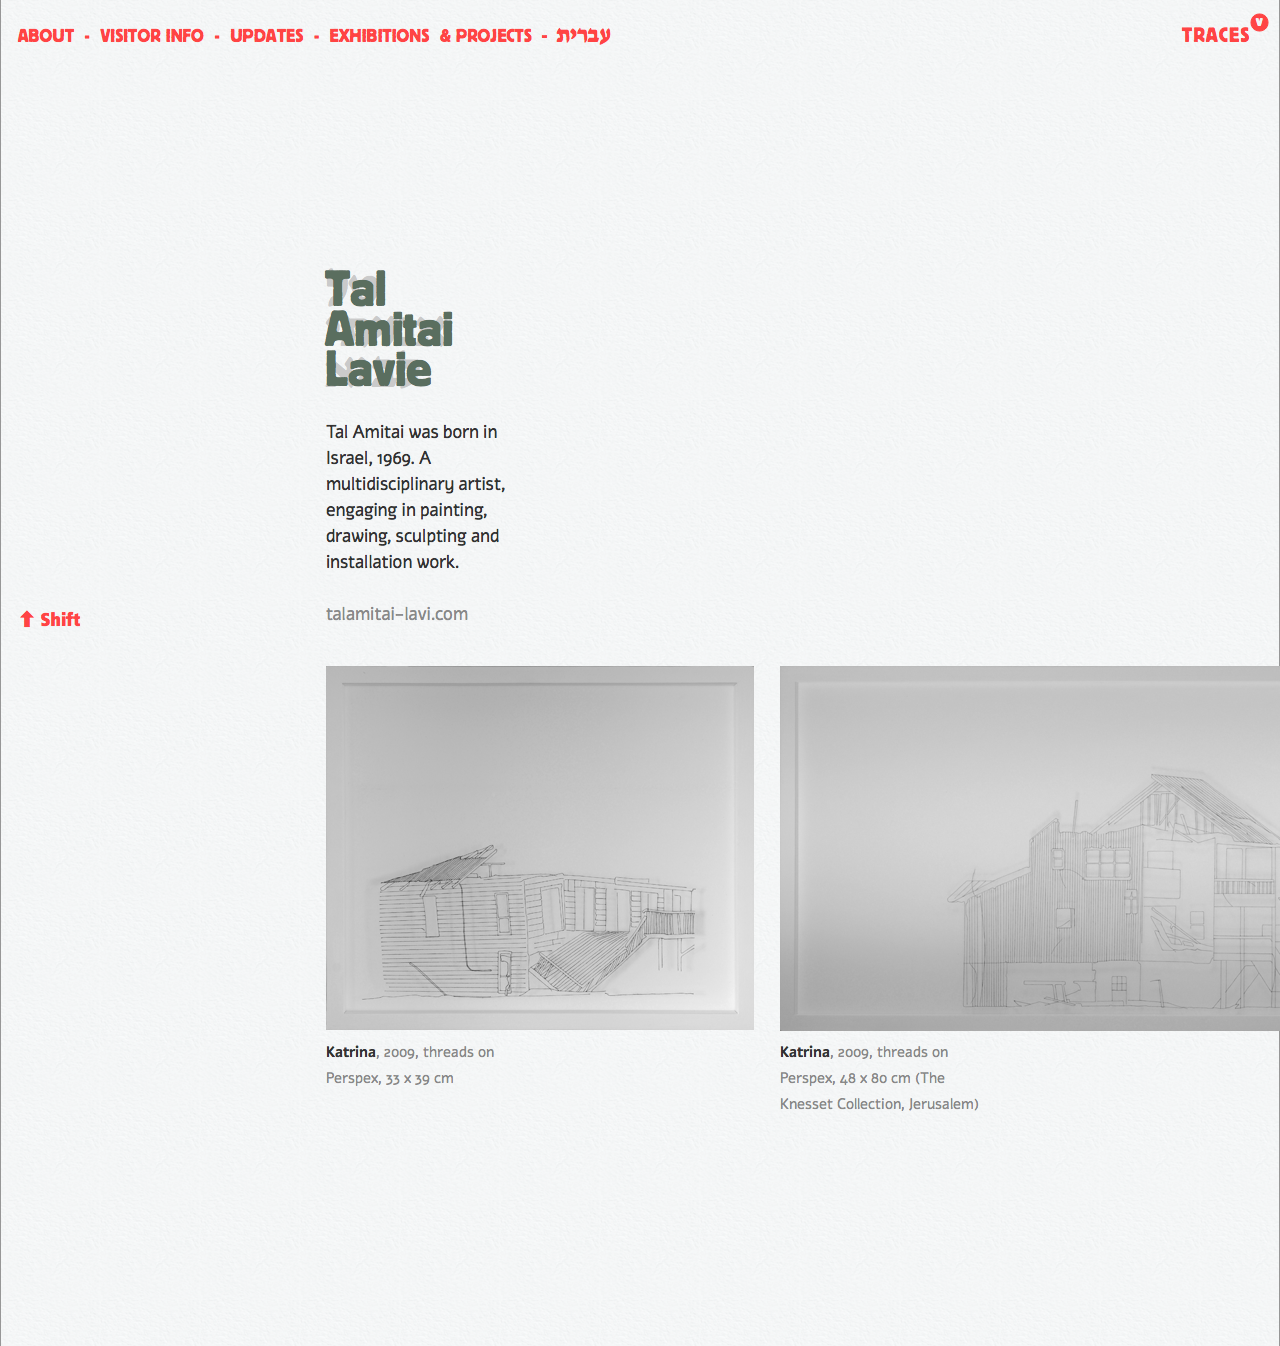
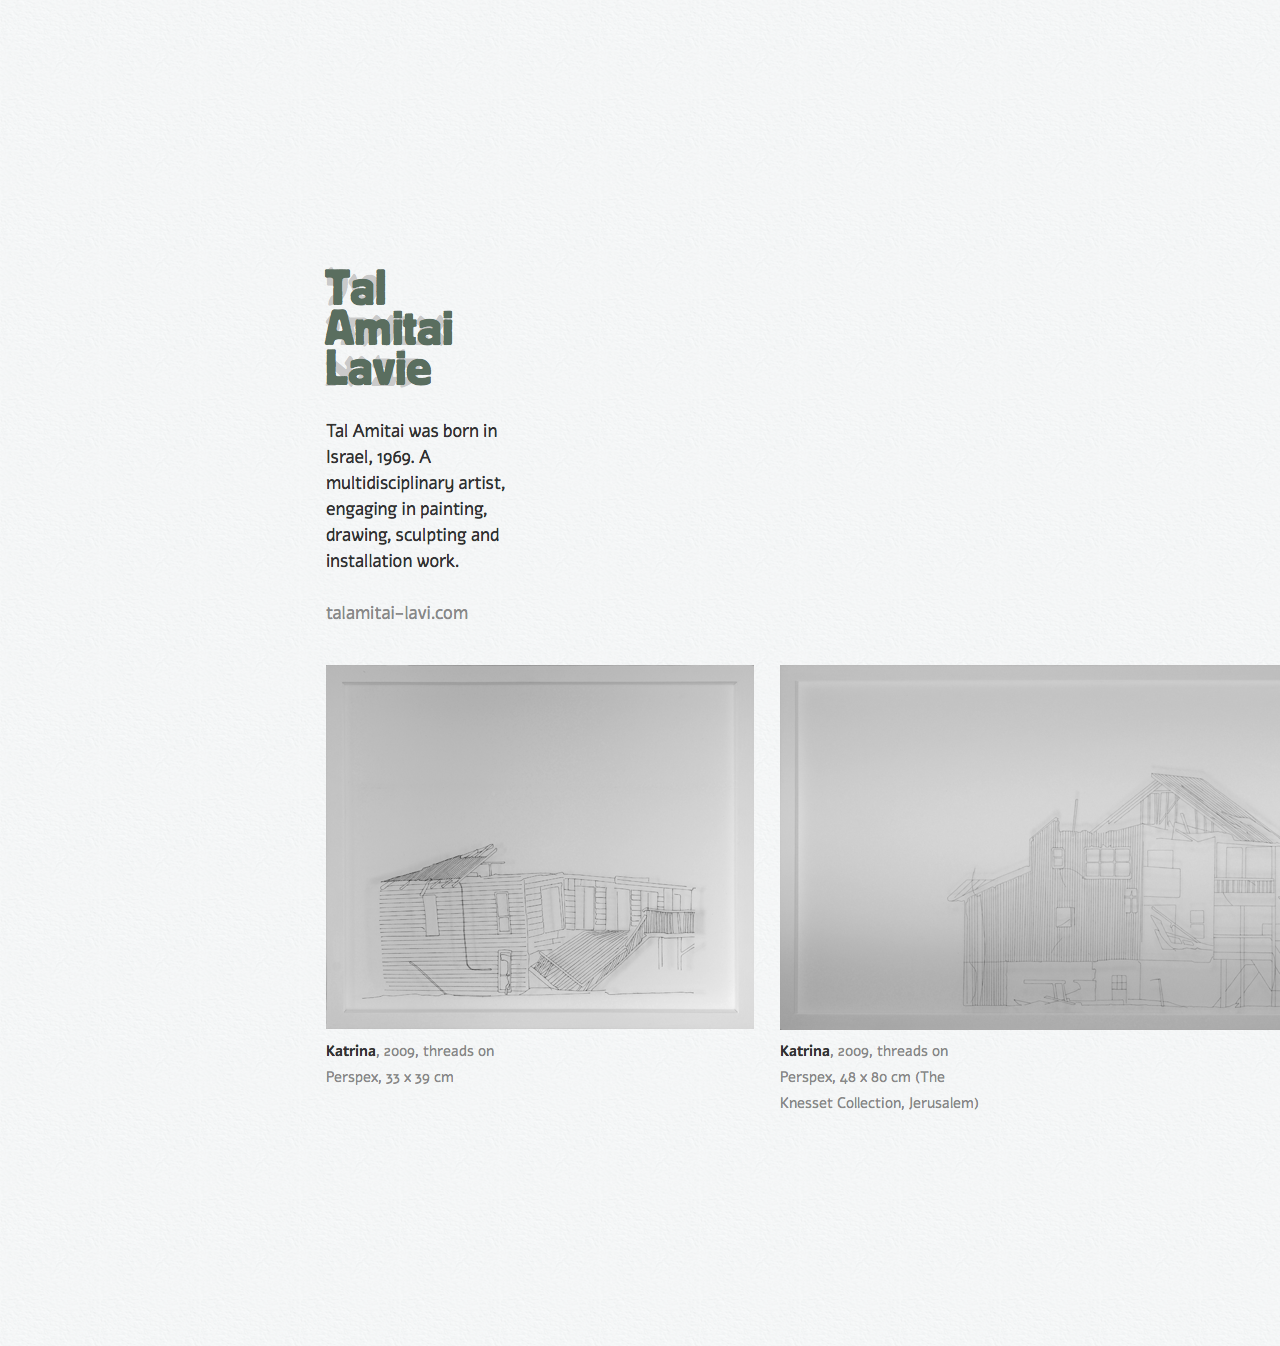
ready for presentation

diff --git a/playground/index.html b/playground/index.html
@@ -6,15 +6,15 @@
         <script type="text/javascript" src="//cdnjs.cloudflare.com/ajax/libs/jquery/2.0.3/jquery.min.js"></script>
         <script type="text/javascript">
             var backgrounds = [
+                'mockups/traces_hp_eng.png',
+                'mockups/traces_hp_heb.png',
+                'mockups/traces_gallery_eng.png',
+                'mockups/traces_gallery_heb.png',
                 'mockups/traces_a1_eng.png',
                 'mockups/traces_a2_eng.png',
                 'mockups/traces_a3_eng.png',
-                'mockups/traces_a45_eng.png',
-                'mockups/traces_a5_eng.png',
-                'mockups/traces_gallery_eng.png',
-                'mockups/traces_gallery_heb.png',
-                'mockups/traces_hp_eng.png',
-                'mockups/traces_hp_heb.png'
+                'mockups/traces_a4_eng.png',
+                'mockups/traces_a5_eng.png'
             ];
             var bgi = 0;
 
@@ -118,7 +118,7 @@
                 font-size: 12px;
             }
             body {
-                overflow: hidden;
+                
                 margin: 0;
             }
             select {
@@ -158,6 +158,7 @@
                 cursor: default;
                 text-shadow: 0px 1px 1px black;
                 -webkit-box-shadow: 0px 1px 5px rgba(0, 0, 0, 0.8);
+                position: fixed !important;
             }
             .button {
                 padding: 2px;
@@ -183,12 +184,12 @@
                 margin-right: 8px;
             }
             .container{
-                background: url("mockups/traces_hp_eng.png") no-repeat #f6f8f8;
+                background: url("mockups/traces_hp_eng.png") center top no-repeat #f6f8f8;
                 min-height: 1346px;
                 margin-top: 30px;
             }
             #mice{
-                position: absolute;
+                position: fixed;
                 height: 40px; width: 200px;
                 top: 5px; right: 5px;
                 text-align: right;
@@ -202,19 +203,19 @@
             #logo{
                 background: url("mockups/logo.png") no-repeat;
                 height: 30px; width: 88px;
-                position: absolute;
+                position: fixed;
                 top: 43px; right: 10px;
             }
             #nav{
                 background: url("mockups/nav.png") no-repeat;
                 height: 17px; width: 594px;
-                position: absolute;
+                position: fixed;
                 top: 58px; left: 17px;
             }
             #shift{
                 background: url("mockups/shift.png") no-repeat;
                 height: 18px; width: 61px;
-                position: absolute;
+                position: fixed;
                 bottom: 20px; left: 20px;
             }
 
